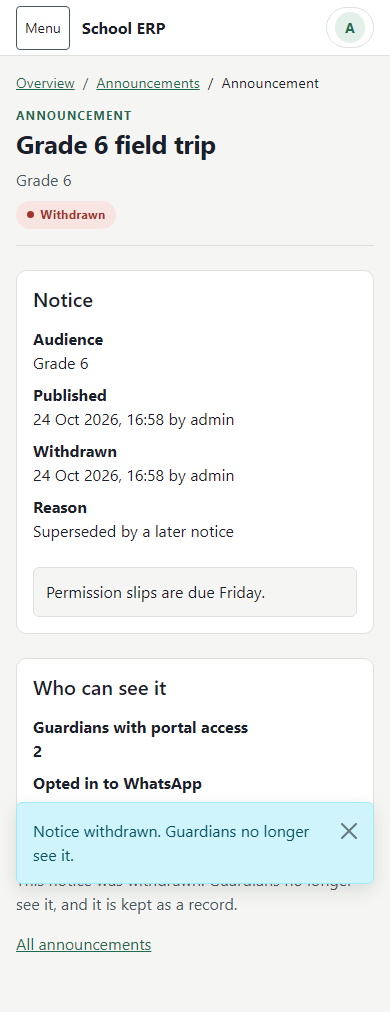
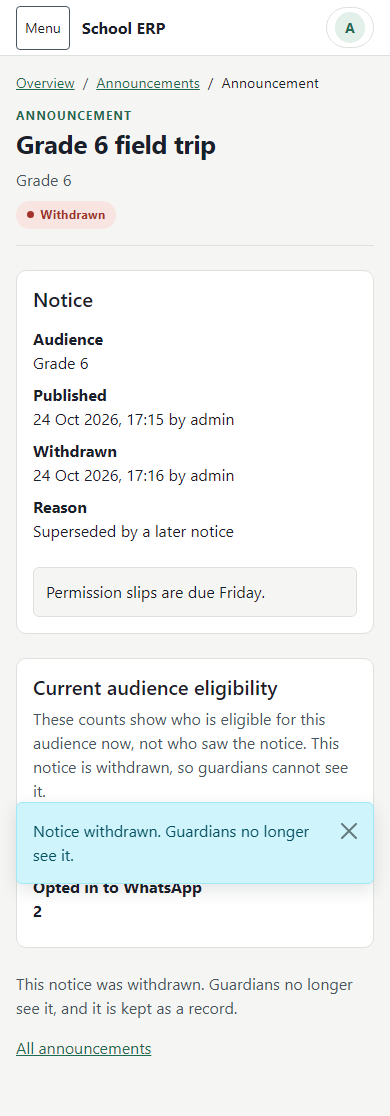
fix(ui): D1-6B withdrawn notice shows current audience eligibility; record L10
Review correction: a withdrawn notice's counts are labelled as current eligibility, not reach,
and say guardians cannot see it. Live notices keep 'Who can see it'. Service counts unchanged.
Records the pre-existing action-redirect-to-possible-403 as ledger item L10.

diff --git a/core/templates/core/announcement_detail.html b/core/templates/core/announcement_detail.html
@@ -19,7 +19,12 @@
 <div class="erp-notice-body">{{ notice.body|linebreaksbr }}</div>
 </section>
 <section class="erp-panel p-3 p-md-4 mb-4" aria-labelledby="notice-reach-heading">
+{% if notice.is_withdrawn %}
+<h2 class="h5 mb-2" id="notice-reach-heading">Current audience eligibility</h2>
+<p class="erp-note-text">These counts show who is eligible for this audience now, not who saw the notice. This notice is withdrawn, so guardians cannot see it.</p>
+{% else %}
 <h2 class="h5 mb-3" id="notice-reach-heading">Who can see it</h2>
+{% endif %}
 <dl class="row mb-0">
     <dt class="col-sm-5">Guardians with portal access</dt><dd class="col-sm-7"><strong>{{ counts.guardians }}</strong></dd>
     <dt class="col-sm-5">Opted in to WhatsApp</dt><dd class="col-sm-7"><strong>{{ counts.opted_in }}</strong></dd>

diff --git a/core/tests/test_ui_admin_desktop_d1_6b_announcements.py b/core/tests/test_ui_admin_desktop_d1_6b_announcements.py
@@ -248,6 +248,27 @@ class DetailTests(Base, TestCase):
         self.assertNotIn("announcement-prepare", page)
         self.assertNotIn("Prepare WhatsApp messages", page)
 
+    def test_audience_heading_depends_on_state_and_counts_stay_the_service_values(self):
+        notice = self.notice()
+        live = self.administrator.get(self.detail_url(notice))
+        page = html(live)
+        self.assertIn(">Who can see it</h2>", page)
+        self.assertNotIn("Current audience eligibility", page)
+        self.assertNotIn("not who saw the notice", page)
+        counts = announcements.audience_counts(notice)
+        self.assertEqual(live.context["counts"], counts)
+        announcements.withdraw(notice, actor=self.admin, reason="Wrong date")
+        gone = self.administrator.get(self.detail_url(notice))
+        page = html(gone)
+        self.assertIn(">Current audience eligibility</h2>", page)
+        self.assertNotIn("Who can see it", page)
+        self.assertIn("not who saw the notice", page)
+        self.assertIn("This notice is withdrawn, so guardians cannot see it.", page)
+        self.assertNotIn("can see it", page.replace("guardians cannot see it", ""))
+        self.assertEqual(gone.context["counts"], counts)
+        self.assertIn(f'<dd class="col-sm-7"><strong>{counts["guardians"]}</strong></dd>', page)
+        self.assertIn(f'<dd class="col-sm-7"><strong>{counts["opted_in"]}</strong></dd>', page)
+
     def test_prepare_requires_assist_mode_and_permission(self):
         notice = self.notice()
         prepare = reverse("core:announcement-prepare", args=[notice.pk])

diff --git a/docs/ui-reviews/ui-d1-6b/README.md b/docs/ui-reviews/ui-d1-6b/README.md
@@ -16,7 +16,7 @@ Widths: 360, 390, 768, 1280, 1440 (full-page PNG). `Whole school` has two guardi
 | `detail-live-after-publish-*` | Publish notice (double-clicked) | Success message, **exactly one** notice created (`data-erp-once`) |
 | `detail-class-audience-live-*` | detail | Live badge, facts, counts, "Prepare WhatsApp messages" (ASSIST mode) with consequence text, labelled Withdraw reason with consequence text |
 | `detail-withdraw-blank-reason-error-*` | Withdraw with no reason | The existing "Give a reason for withdrawing this notice." message; nothing withdrawn |
-| `detail-withdrawn-*`, `detail-withdrawn-after-reason-*` | withdrawn notice | Withdrawn badge, who/when/reason, no Prepare or Withdraw controls |
+| `detail-withdrawn-*`, `detail-withdrawn-after-reason-*` | withdrawn notice | Withdrawn badge, who/when/reason, no Prepare or Withdraw controls; the counts sit under **Current audience eligibility** with a note that they are not historical reach and that guardians cannot see a withdrawn notice (Live notices keep "Who can see it"). Refreshed at 390 and 1440px after review |
 | `detail-long-text-*` | long title and unbroken body | Wraps inside its panel; 0px page overflow |
 | `nojs-*` | JavaScript **disabled** | Form shows both Class and Section selectors; preview and publish still work end to end (reached the new notice's detail page) |
 | `restricted-add-only-*` | `add_announcement` only | Form and preview without a Cancel link (no `view_announcement`); the list is 403 |
@@ -36,6 +36,7 @@ Widths: 360, 390, 768, 1280, 1440 (full-page PNG). `Whole school` has two guardi
 
 ## Known limits
 
+- Pre-existing, **not changed here**: Create, Prepare and Withdraw redirect to Announcement detail even for a user without `view_announcement` (a 403 after the action). It needs its own review before production (see the plan's deferred-work ledger).
 - The audience group's legend/field rendering is the existing `as_field_group` output; its look is unchanged.
 - The Withdraw reason is not marked `required` in HTML, so the existing server-side message and audit path stay in charge.
 - A manual screen-reader pass and PostgreSQL staging verification remain open (ledger L8). Nothing is deployed.

diff --git a/docs/ADMIN_DESKTOP_D1_6_COMMUNICATION_OPERATIONS_PLAN.md b/docs/ADMIN_DESKTOP_D1_6_COMMUNICATION_OPERATIONS_PLAN.md
@@ -261,5 +261,6 @@ This ledger is the single place that tracks work deliberately **not** done by th
 | L7 | A real Django form for the Subject/Section matrix filters; a per-action breakdown of the publication preview; numeric alignment in `_result_cells.html` | Need view/form or shared-template changes | Separate approved gates | No |
 | L8 | Manual screen-reader pass and verification against PostgreSQL staging; every UI-D1 gate is **not deployed** | Evidence so far is synthetic SQLite screenshots plus local PostgreSQL tests | A staging verification step before any deployment | **Yes** |
 | L9 | Guardian list search, sort and pagination; shared top-bar overflow at 195 CSS px (200% zoom on phones); sidebar keyboard focus styling | Pre-existing or functional | Separate follow-ups | No |
+| L10 | **Announcement action redirects to a possible 403:** `announcement_create` (confirm), `announcement_prepare` and `announcement_withdraw` redirect to Announcement detail, which needs `view_announcement`; a user holding only `add_announcement`, `send_notification` or `withdraw_announcement` is redirected to a 403 after the action succeeds (pre-existing, same class as L1) | UI gates may not change views or permissions; D1-6B left the redirects as they are | A separate, narrowly scoped functional review and fix with its own tests | **Yes, review before production** |
 
 Closeouts for D1-6A to D1-6E must restate this ledger and say which rows, if any, changed.
